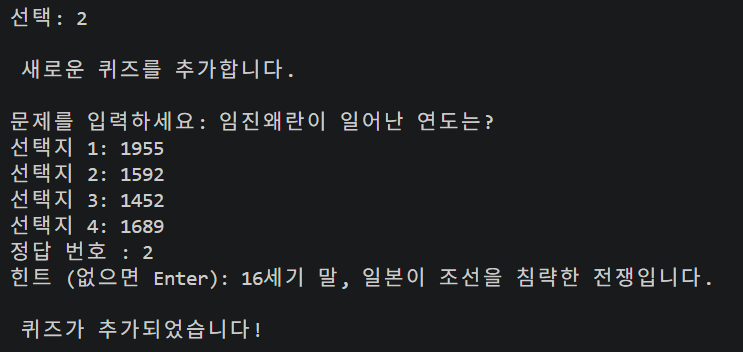
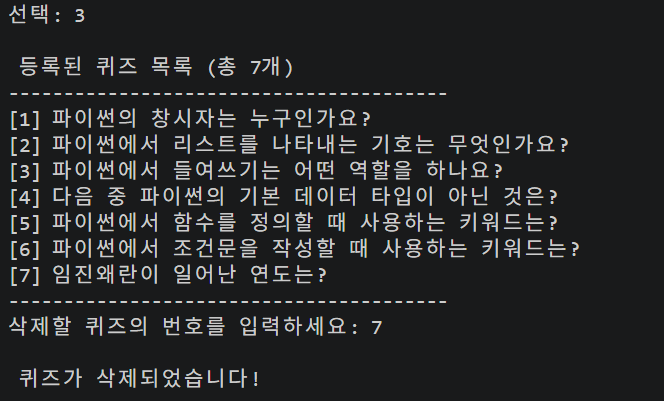
docs: README 4차 검토

Changed region(s): [[0.0, 0.125, 0.9639, 0.8438], [0.0301, 0.9062, 0.3916, 0.9688], [0.0, 0.0, 0.1506, 0.0938]]

diff --git a/README.md b/README.md
@@ -53,13 +53,13 @@ game.run()
 - 퀴즈 풀기
 ![퀴즈 풀기 화면](docs/play.png)
 
-- 퀴즈 추가
+- 퀴즈 추가  
 ![퀴즈 추가 화면](docs/add_quiz.png)
 
-- 퀴즈 삭제
+- 퀴즈 삭제  
 ![퀴즈 삭제 화면](docs/delete_quiz.png)
 
-- 점수 확인
+- 점수 확인  
 ![점수 확인 화면](docs/score.png)
 
 - 히스토리 
@@ -206,64 +206,89 @@ class QuizGame:
         """state.json에 퀴즈와 점수 저장"""
 ```
 
-### 내부 메서드 (`_`)
-- 클래스 내부에서만 사용하는 메서드
-```python
-def _load_default_quizzes(self) -> None:
-    """기본 퀴즈 6개 로드"""
-
-def _run_quiz(self, quizzes) -> tuple[int, int]:
-    """퀴즈 진행. (정답 수, 힌트 사용 수) 반환"""
-
-def _ask_answer(self, quiz) -> tuple:
-    """한 문제 정답 입력 (힌트 처리 포함)"""
-
-def _select_quizzes(self) -> list:
-    """문제 수 선택 후 랜덤 추출"""
-
-def _shuffle_quizzes(self) -> list:
-    """퀴즈 순서 섞기"""
-
-def _calculate_score(self, total, correct, hint_used) -> tuple:
-    """점수 계산 (힌트 감점 반영)"""
-
-def _update_best_score(self, score, total) -> None:
-    """최고 점수 갱신"""
-
-def _print_result(self, ...) -> None:
-    """문제 체점 결과 출력"""
-
-def _save_history(self, score, total, hint_used) -> None:
-    """히스토리 저장 (최신순)"""
-
-def _read_int(self, prompt, min_val, max_val, hint_yn=False) -> tuple:
-    """숫자 입력 공통 처리"""
-
-def _get_int_input(self, prompt, min_val, max_val) -> int:
-    """숫자만 입력받기"""
-
-def _get_answer_input(self, prompt) -> tuple:
-    """정답 입력 (힌트 허용)"""
-
-def _get_str_input(self, prompt, ...) -> str:
-    """문자열 입력"""
-
-def _get_bool_input(self, prompt) -> bool:
-    """y/n 입력"""
-
-def _get_input_result(self, user_input, hint_yn=False) -> InputResult:
-    """입력을 InputResult로 변환"""
-
-def _handle_exit(self) -> None:
-    """안전 종료 (저장 후 종료)"""
-
-def _format_score(self) -> str:
-    """최고 점수를 문자열로 반환"""
-
-def _print_abbreviations(self) -> None:
-    """명령어 도움말 출력"""
+### 호출 흐름
+```
+run()
+├─ show_menu()                          # 메뉴 출력
+│
+├─ play_quiz()                          # 퀴즈 한 판 진행
+│    ├─ _select_quizzes()               # (설정 시) 문제 수 선택 (qcount)
+│    ├─ _shuffle_quizzes()              # (설정 시) 순서 섞기 (shuffle)
+│    ├─ _run_quiz()                     # N개 퀴즈 실행 --> 정답 개수, 힌트 개수 카운팅 --> 점수 계산 --> 갱신 
+│    │    └─ _ask_answer()              # 정답 입력 + 힌트 보기 처리 --> 입력한 정답, 힌트 사용 여부 리턴
+│    │         └─ _get_answer_input()   # 힌트 허용 입력 --> 입력한 정답, 힌트 사용 여부 리턴
+│    ├─ _calculate_score()              # 점수 계산 (힌트 감점)
+│    ├─ _update_best_score()            # 최고 점수 갱신
+│    ├─ _save_history()                 # (설정 시) 히스토리 저장
+│    └─ _print_result()                 # 결과 출력
+│
+├─ add_quiz()                           # 퀴즈 추가
+│    ├─ _get_str_input()                # 문제, 선택지 입력
+│    └─ _get_int_input()                # 정답 번호 입력
+│
+├─ delete_quiz()                        # 퀴즈 삭제
+│    └─ list_quizzes()                  # 퀴즈 목록 출력
+│    └─ _get_int_input()                # 삭제할 번호 입력
+│
+├─ list_quizzes()                       # 퀴즈 목록 출력
+├─ show_score()                         # 최고 점수 출력
+├─ show_history()                       # 히스토리 출력
+├─ print_abbreviations()                # 도움말 출력
+│
+├─ 입력 처리
+│    ├─ _get_int_input()                # 숫자만 필요할 때 --> 값(숫자)만 리턴
+│    │    └─ _read_int()                # 범위 체크, 숫자 변환 --> (VALUE, 값) 으로 리턴 (힌트 제외)
+│    │         └─ _get_input_result()   # 특수 입력 처리 (q, h, exit 등) --> VALUE 리턴
+│    │
+│    ├─ _get_answer_input()             # 정답 입력 (힌트 허용), --> (HINT 또는 VALUE, 값)으로 리턴
+│    │    └─ _read_int(hint_yn=True)    # 범위 체크, 숫자 변환 --> (HINT 또는 VALUE, 값)으로 리턴
+│    │         └─ _get_input_result()   # 특수 입력 처리 (q, h, exit 등) --> HINT 또는 VALUE 리턴
+│    │
+│    ├─ _get_str_input()                # 문자열 입력: 필수 여부, 범위 체크 --> 값(문자열) 리턴
+│    │    └─ _get_input_result()        # 특수 입력 처리 (q, h, exit 등) -->  VALUE 리턴
+│    │
+│    └─ _get_bool_input()               # y/n 입력 : 'y' 또는 'n' 체크 -> True/False 리턴
+│         └─ _get_str_input()           # 문자열 입력: 필수 여부, 범위 체크 --> 값(문자열) 리턴
+│              └─ _get_input_result()   # 특수 입력 처리 (q, h, exit 등) -->  VALUE 리턴
+│
+├─ load_data() / save_data()            # state.json 읽기/쓰기
+└─ load_history() / _save_history()     # history.json 읽기/쓰기
 ```
 
+
+### 예외 처리 흐름 
+```
+사용자 입력
+│
+├─ 빈 입력 ──────────────→ (필수 입력인 경우) 안내 후 다시 입력
+├─ 숫자 아님 ────────────→ (숫자 입력인 경우) 안내 후 다시 입력
+├─ 범위 밖 ──────────────→ (숫자 입력인 경우) 안내 후 다시 입력
+│
+├─ "h"
+│    ├─ 퀴즈 정답 입력 중 ─→ 힌트 출력 (감점은 1회만)
+│    │                         └─ 같은 문제에서 다시 입력
+│    │
+│    ├─ 숫자 입력 중 ──────→ "숫자만 입력해주세요" 후 다시 입력
+│    │
+│    └─ 문자열 입력 중 ────→ 그냥 문자열 "h"로 처리
+│
+├─ "q" ──────────────────→ UserExit 발생
+│                              │
+│                              ├─ 퀴즈 중이면 → 이력 저장 여부 확인 → 메뉴로
+│                              └─ 그 외 → 메뉴로
+│
+├─ "exit" ───────────────→ save_data() → 프로그램 종료
+├─ Ctrl+C / EOF 예외 ─────→ save_data() → 프로그램 종료
+│
+└─ 정상 입력 ────────────→ 해당 기능 실행파일 관련
+│
+├─ state.json 없음 ──────→ 기본 퀴즈 로드 → save_data()
+├─ state.json 손상 ──────→ 안내 → 기본 퀴즈로 복구 → save_data()
+└─ state.json 저장 실패 ──→ 오류 메시지 출력 (게임은 계속)
+│
+├─ history.json 없음 ────→ 빈 목록으로 시작
+└─ history.json 저장 실패 → 오류 메시지 출력 (게임은 계속)
+```
 
 ## `InputResult`: 특수 입력을 구분하는 열거형 
 ```python
